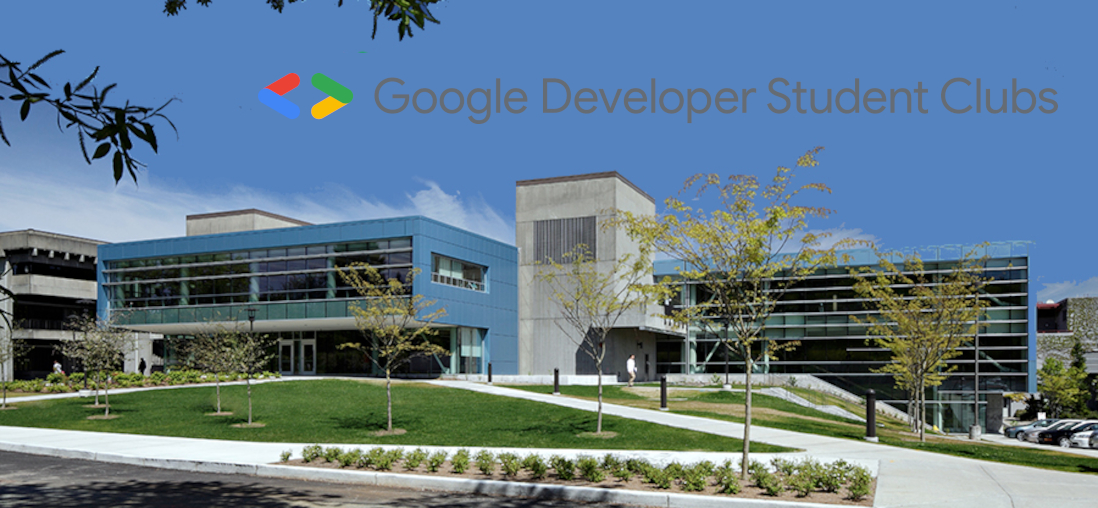
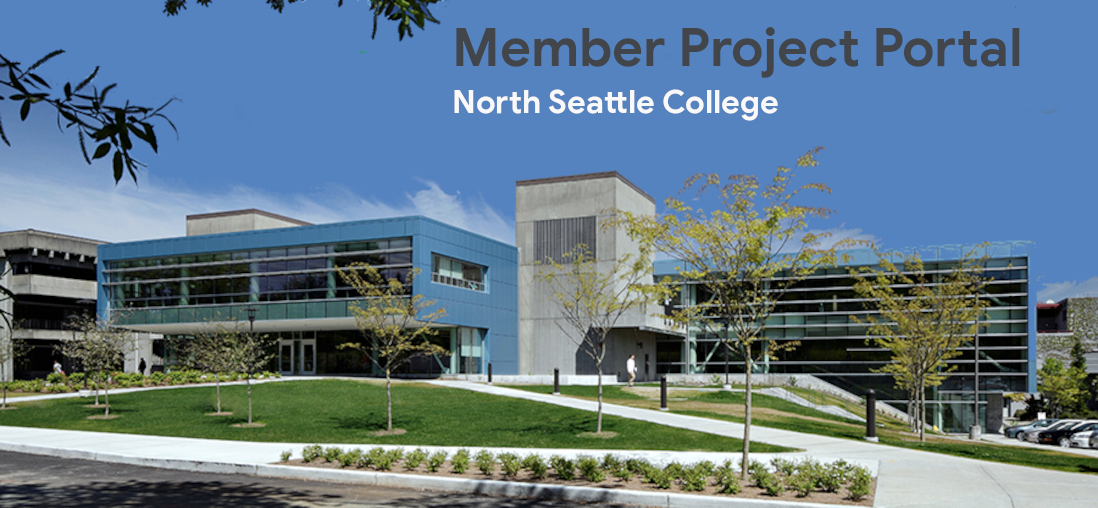
NSCCS-16 Streamlined content; removed all links; minimalized message to member portal

Changed region(s): [[0.2168, 0.0591, 0.9599, 0.2362]]

diff --git a/app/assets/stylesheets/application.css.scss b/app/assets/stylesheets/application.css.scss
@@ -40,11 +40,16 @@
 
 }
 
+.btn:hover {
+    background-color: #E8F5E9 !important;
+}
+
 
  body {
    margin: 0;
    font-family: 'GoogleSans-Regular-v1';
    color: #757575;
+   font-size: 28px;
 
    -webkit-background-size: cover;
    -moz-background-size: cover;

diff --git a/app/controllers/sessions_controller.rb b/app/controllers/sessions_controller.rb
@@ -8,7 +8,7 @@ class SessionsController < ApplicationController
     @user = User.find_by(email: params[:email])
     if @user && @user.authenticate(params[:password])
       session[:user_id] = @user.id
-      redirect_to welcome_path
+      redirect_to projects_path
     else
       flash[:warning] = "The email or password is incorrect:/"
       redirect_to login_path
